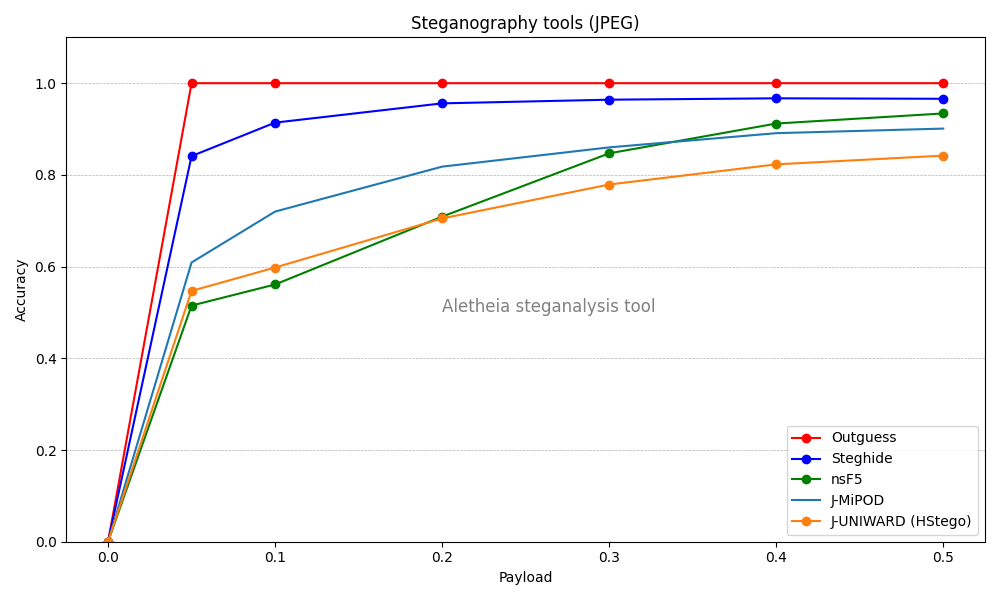
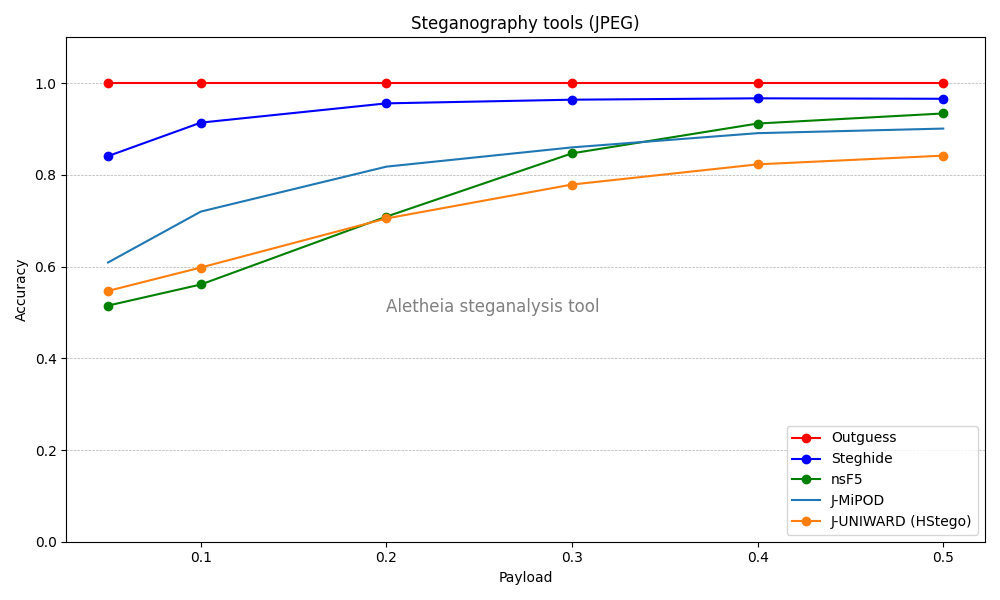
improve images

diff --git a/stego/plot-tools/tool-comparison.py b/stego/plot-tools/tool-comparison.py
@@ -3,14 +3,15 @@
 
 import matplotlib.pyplot as plt
 
-# Datos
-payload =    [0,   0.05,  0.10,  0.20,  0.30,  0.40,  0.50]
-lsbm =       [0,   0.568, 0.748, 0.941, 0.961, 0.971, 0.971]
-lsbr =       [0,   0.571, 0.766, 0.942, 0.960, 0.964, 0.965]
-lsbr_spa =   [0,   0.709, 0.858, 0.860, 0.860, 0.860, 0.860]
-steganogan = [0,   0.993, 0.994, 0.993, 0.994, 0.993, 0.994]
-uniward =    [0,   0.534, 0.668, 0.870, 0.920, 0.934, 0.942]
-hill =       [0,   0.573, 0.773, 0.919, 0.941, 0.949, 0.952]
+# Datos       
+payload =    [0.05,  0.10,  0.20,  0.30,  0.40,  0.50]
+# ----------------------------------------------------
+lsbm =       [0.568, 0.748, 0.941, 0.961, 0.971, 0.971]
+lsbr =       [0.571, 0.766, 0.942, 0.960, 0.964, 0.965]
+lsbr_spa =   [0.709, 0.858, 0.860, 0.860, 0.860, 0.860]
+steganogan = [0.993, 0.994, 0.993, 0.994, 0.993, 0.994]
+uniward =    [0.534, 0.668, 0.870, 0.920, 0.934, 0.942]
+hill =       [0.573, 0.773, 0.919, 0.941, 0.949, 0.952]
 
 fig, ax1 = plt.subplots(figsize=(10,6))
 

diff --git a/stego/plot-tools/tool-comparison-jpeg.py b/stego/plot-tools/tool-comparison-jpeg.py
@@ -4,12 +4,13 @@
 import matplotlib.pyplot as plt
 
 # Datos
-payload =  [0,   0.05, 0.10, 0.20, 0.30, 0.40, 0.50]
-steghide = [0,   0.841, 0.914, 0.956, 0.964, 0.967, 0.966]
-outguess = [0,   1,     1,     1,     1,     1,     1]
-nsf5 =     [0,   0.515, 0.561, 0.709, 0.847, 0.912, 0.934]
-jmipod =   [0,   0.609, 0.720, 0.818, 0.860, 0.891, 0.901]
-juniw =    [0,   0.547, 0.598, 0.705, 0.779, 0.823, 0.842]
+payload =  [0.05,  0.10,  0.20,  0.30,  0.40,  0.50]
+# ---------------------------------------------------
+steghide = [0.841, 0.914, 0.956, 0.964, 0.967, 0.966]
+outguess = [1,     1,     1,     1,     1,     1]
+nsf5 =     [0.515, 0.561, 0.709, 0.847, 0.912, 0.934]
+jmipod =   [0.609, 0.720, 0.818, 0.860, 0.891, 0.901]
+juniw =    [0.547, 0.598, 0.705, 0.779, 0.823, 0.842]
 
 fig, ax1 = plt.subplots(figsize=(10,6))
 
